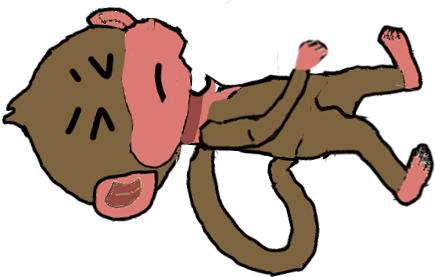
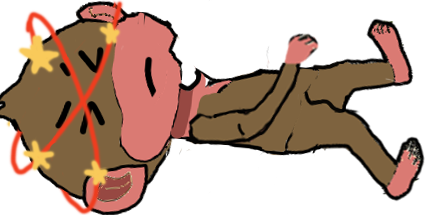
fixed monkey death animation location for water

diff --git a/momotaro/game_templates/pet_player.py b/momotaro/game_templates/pet_player.py
@@ -664,8 +664,10 @@ class Pet:
             case "dog":
                 surface.blit(self.dog_death_image, self.position)
             case "monkey":
-
-                surface.blit(self.monkey_death_image, self.position)
+                if self.standing_on.type == "water":
+                    surface.blit(self.monkey_death_image, (self.position[0], self.position[1]+30))
+                else:
+                    surface.blit(self.monkey_death_image, self.position)
 
     def delete_peach(self, peach):
         self.peaches.remove(peach)
